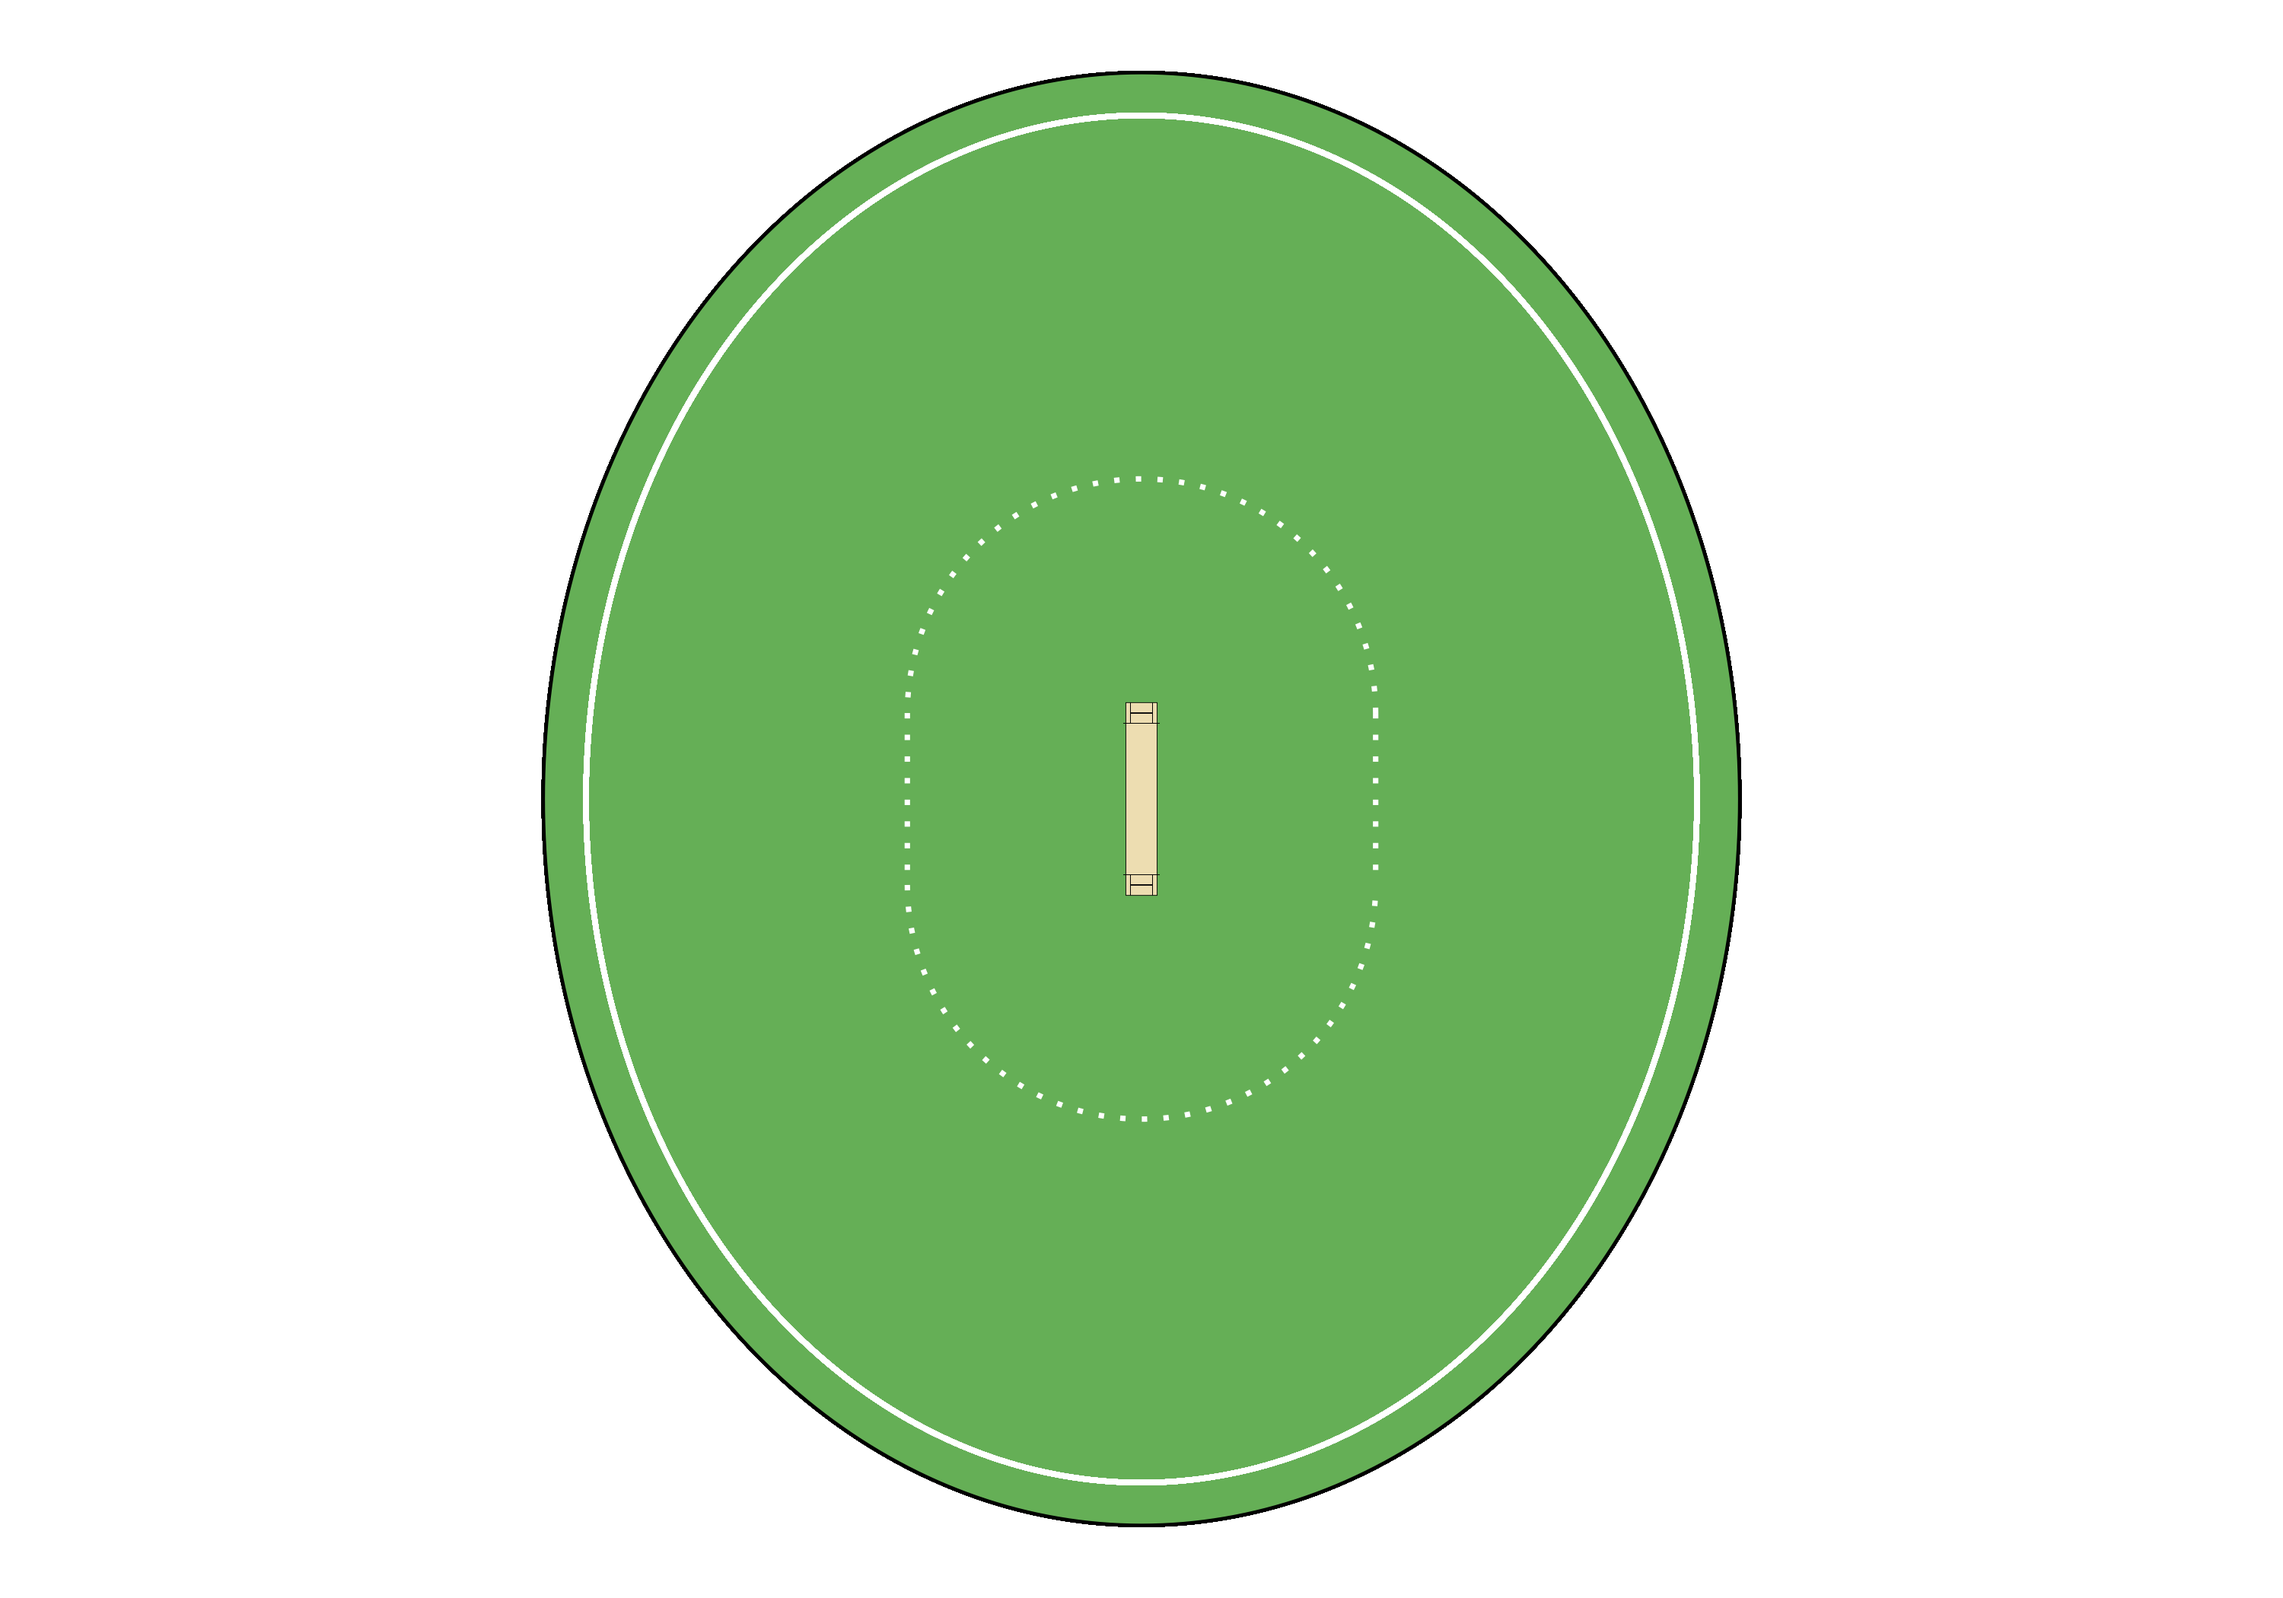
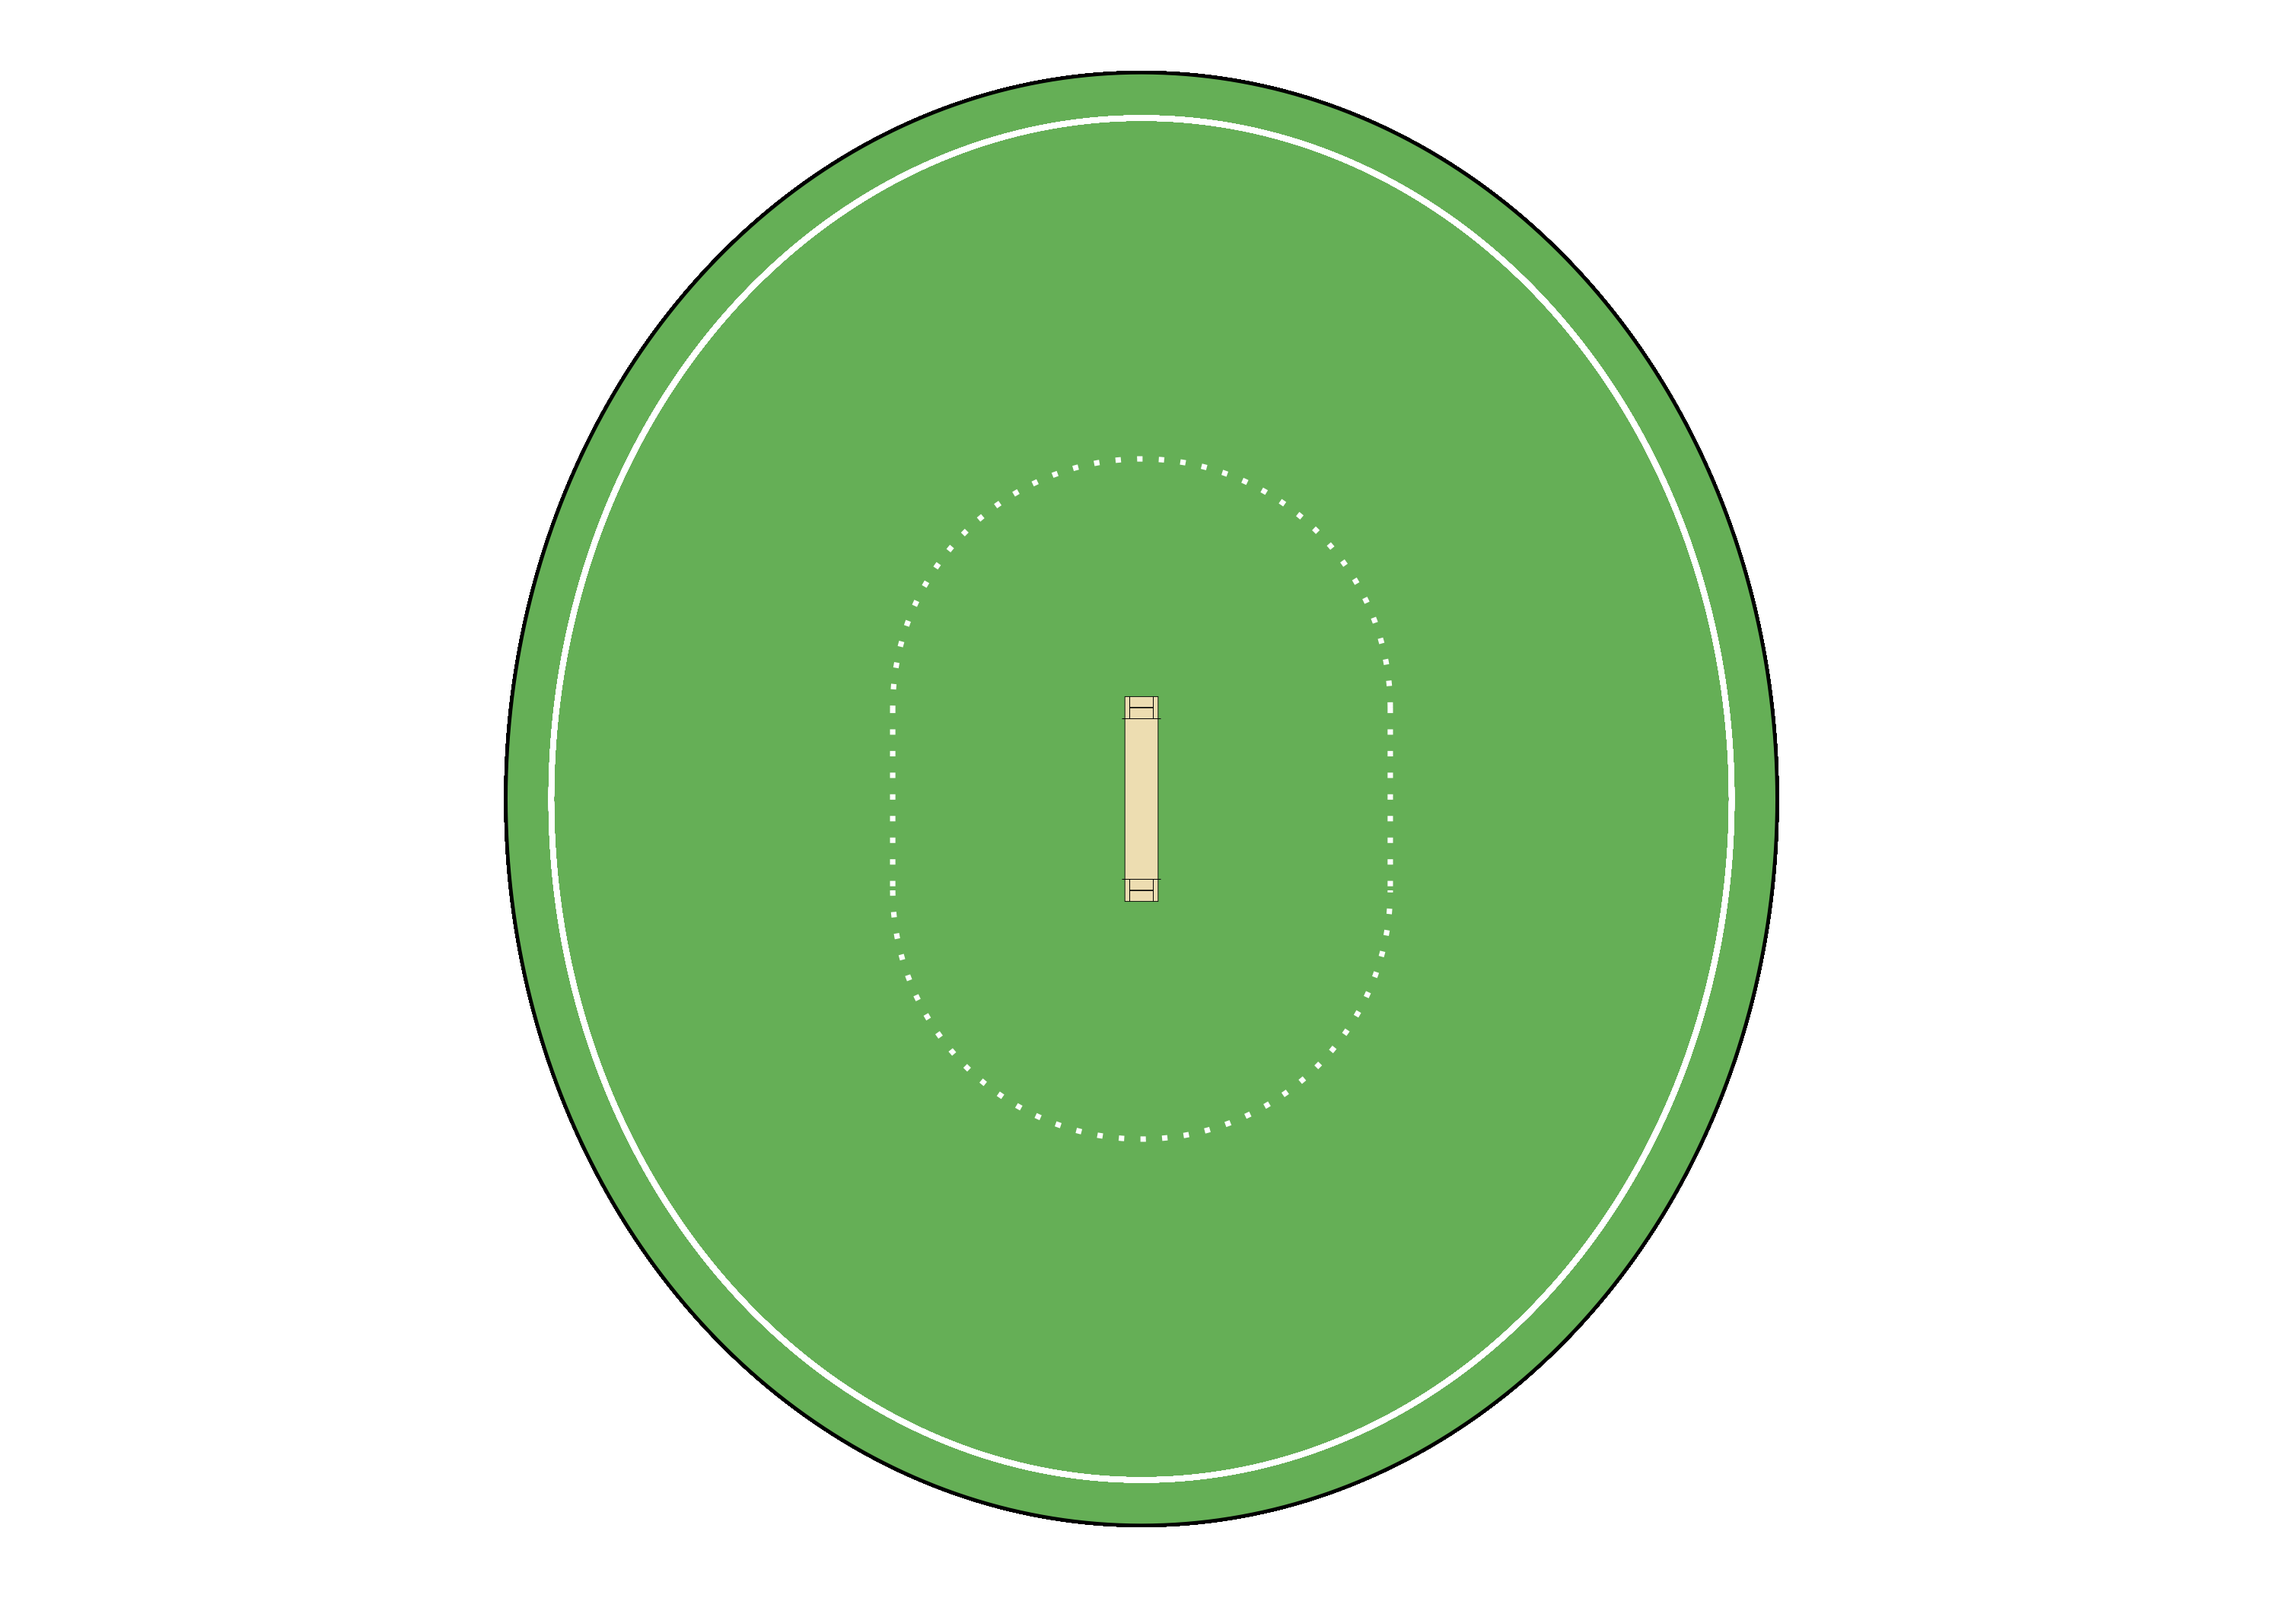
Udated as of 02.06.2024

diff --git a/README.md b/README.md
@@ -11,7 +11,7 @@ This repository contains a set of functions to plot a cricket field and a cricke
 `cricket_field(straight_boundary = 60, square_boundary = 70)` 
 ![Cricket Field](images/cricket_field_1.png)
 
-`cricket_field(straight_boundary = 80, square_boundary = 65)` 
+`cricket_field(straight_boundary = 75, square_boundary = 65)` 
 ![Cricket Field](images/cricket_field_2.png)
 
 `cricket_pitch()`
